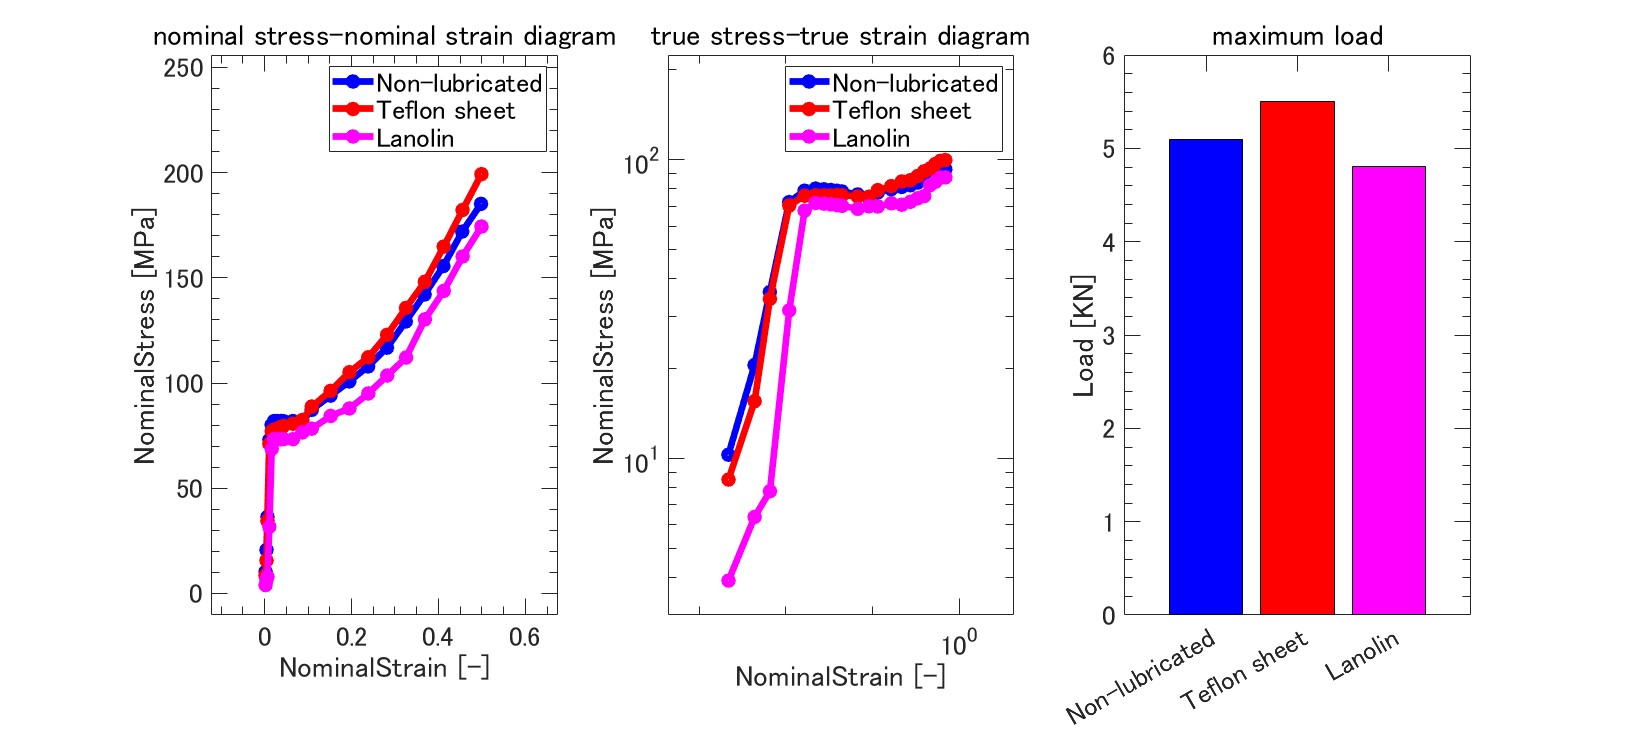
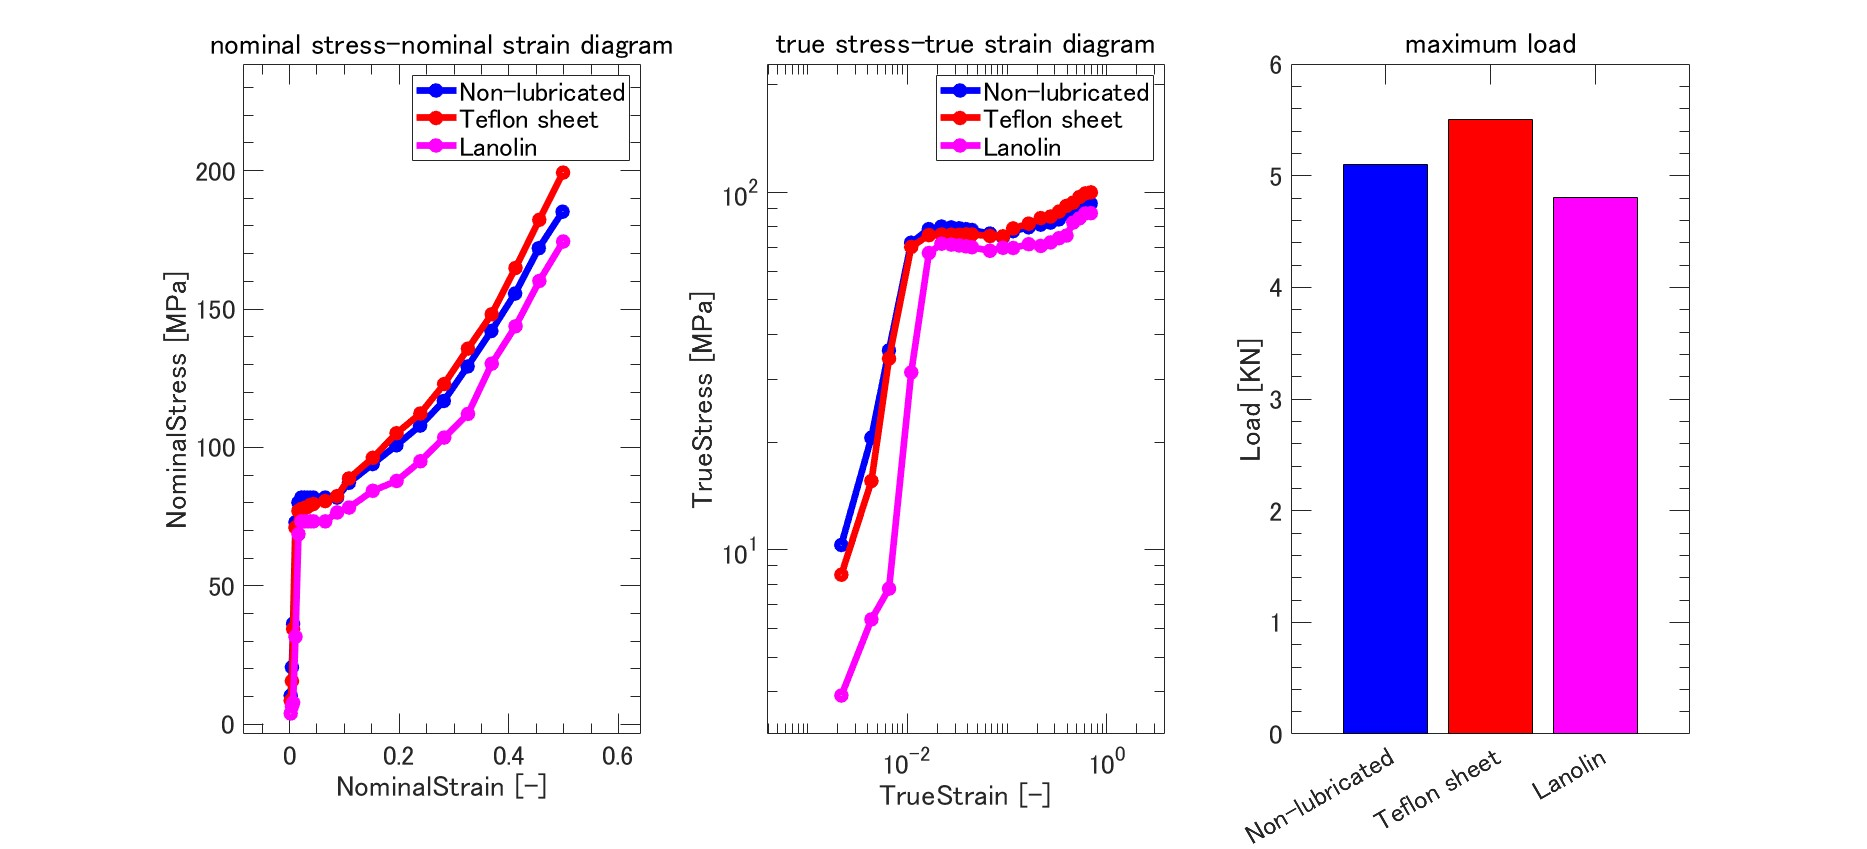
add

diff --git a/ToolboxForSimulator/Result1.m b/ToolboxForSimulator/Result1.m
@@ -26,6 +26,19 @@ title(titlename_Lanolin);
 set(gca, 'FontSize', font_size);
 set(gca, 'TickLength', [0.03 0.03], 'XMinorTick', 'on', 'YMinorTick', 'on');
 
+figure;
+errorbar(Non.Undim(:,2:end), Non.Strain_r_mean, Non.Strain_r_std, 'o-', 'LineWidth', 5, 'MarkerSize', 6, 'CapSize', 8, 'Color', 'b', 'MarkerFaceColor','b');
+hold on;
+errorbar(Teflon.Undim(:,2:end), Teflon.Strain_r_mean, Teflon.Strain_r_std, 'o-', 'LineWidth', 5, 'MarkerSize', 6, 'CapSize', 8, 'Color', 'r', 'MarkerFaceColor','r');
+hold on;
+errorbar(Lanolin.Undim(:,2:end), Lanolin.Strain_r_mean, Lanolin.Strain_r_std, 'o', 'LineWidth', 5, 'MarkerSize', 6, 'CapSize', 8, 'Color', 'm', 'MarkerFaceColor','m');
+hold on;
+xlabel('Undimensional radius [-]'); ylabel('Radial strain [-]');
+legend('Non-lubricated', 'Teflon sheet', 'Lanolin', 'FontSize',font_size);
+set(gca, 'FontSize', font_size);
+set(gca, 'TickLength', [0.03 0.03], 'XMinorTick', 'on', 'YMinorTick', 'on');
+
+
 function Materials = calc_Result1(Data_Materials, Materials, titlename)
 D0 = mean(Data_Materials.D0, 'omitnan');
 r_n = Data_Materials.r_n;

diff --git a/ToolboxForSimulator/Result2.m b/ToolboxForSimulator/Result2.m
@@ -26,6 +26,17 @@ title(titlename_Lanolin);
 set(gca, 'FontSize', font_size);
 set(gca, 'TickLength', [0.03 0.03], 'XMinorTick', 'on', 'YMinorTick', 'on');
 
+figure
+errorbar(Non.Dimen, Non.StrainC_mean, Non.StrainC_std, 'o-', 'LineWidth', 5, 'MarkerSize', 6, 'CapSize', 20, 'Color', 'b', 'MarkerFaceColor','b');
+hold on;
+errorbar(Teflon.Dimen, Teflon.StrainC_mean, Teflon.StrainC_std, 'o-', 'LineWidth', 5, 'MarkerSize', 6, 'CapSize', 20, 'Color', 'r', 'MarkerFaceColor','r');
+hold on;
+errorbar(Lanolin.Dimen, Lanolin.StrainC_mean, Lanolin.StrainC_std, 'o-', 'LineWidth', 5, 'MarkerSize', 6, 'CapSize', 20, 'Color', 'm', 'MarkerFaceColor','m');
+xlabel('Dimensionless height [-]'); ylabel('Circumferential strain [-]');
+legend('Non-lubricated', 'Teflon sheet', 'Lanolin', 'FontSize',font_size);
+set(gca, 'FontSize', font_size);
+set(gca, 'TickLength', [0.03 0.03], 'XMinorTick', 'on', 'YMinorTick', 'on');
+
 function Materials = calc_Result2(Data_Materials, Materials, titlename)
 h0 = mean(Data_Materials.h0, 'omitnan');
 D0 = mean(Data_Materials.D0, 'omitnan');

diff --git a/ToolboxForSimulator/Results_str.m b/ToolboxForSimulator/Results_str.m
@@ -42,8 +42,8 @@ loglog(Non.TrueStrain, Non.TrueStress, 'b-o', 'LineWidth',5); hold on;
 loglog(Teflon.TrueStrain, Teflon.TrueStress, 'r-o', 'LineWidth',5); hold on;
 loglog(Lanolin.TrueStrain, Lanolin.TrueStress, 'm-o', 'LineWidth',5)
 legend('Non-lubricated', 'Teflon sheet', 'Lanolin', 'FontSize',font_size);
-xlabel('NominalStrain [-]', 'FontSize',font_size); 
-ylabel('NominalStress [MPa]', 'FontSize',font_size); 
+xlabel('TrueStrain [-]', 'FontSize',font_size); 
+ylabel('TrueStress [MPa]', 'FontSize',font_size); 
 title('true stress-true strain diagram', 'FontSize',font_size)
 set(gca, 'FontSize', font_size);
 set(gca, 'TickLength', [0.03 0.03], 'XMinorTick', 'on', 'YMinorTick', 'on');
